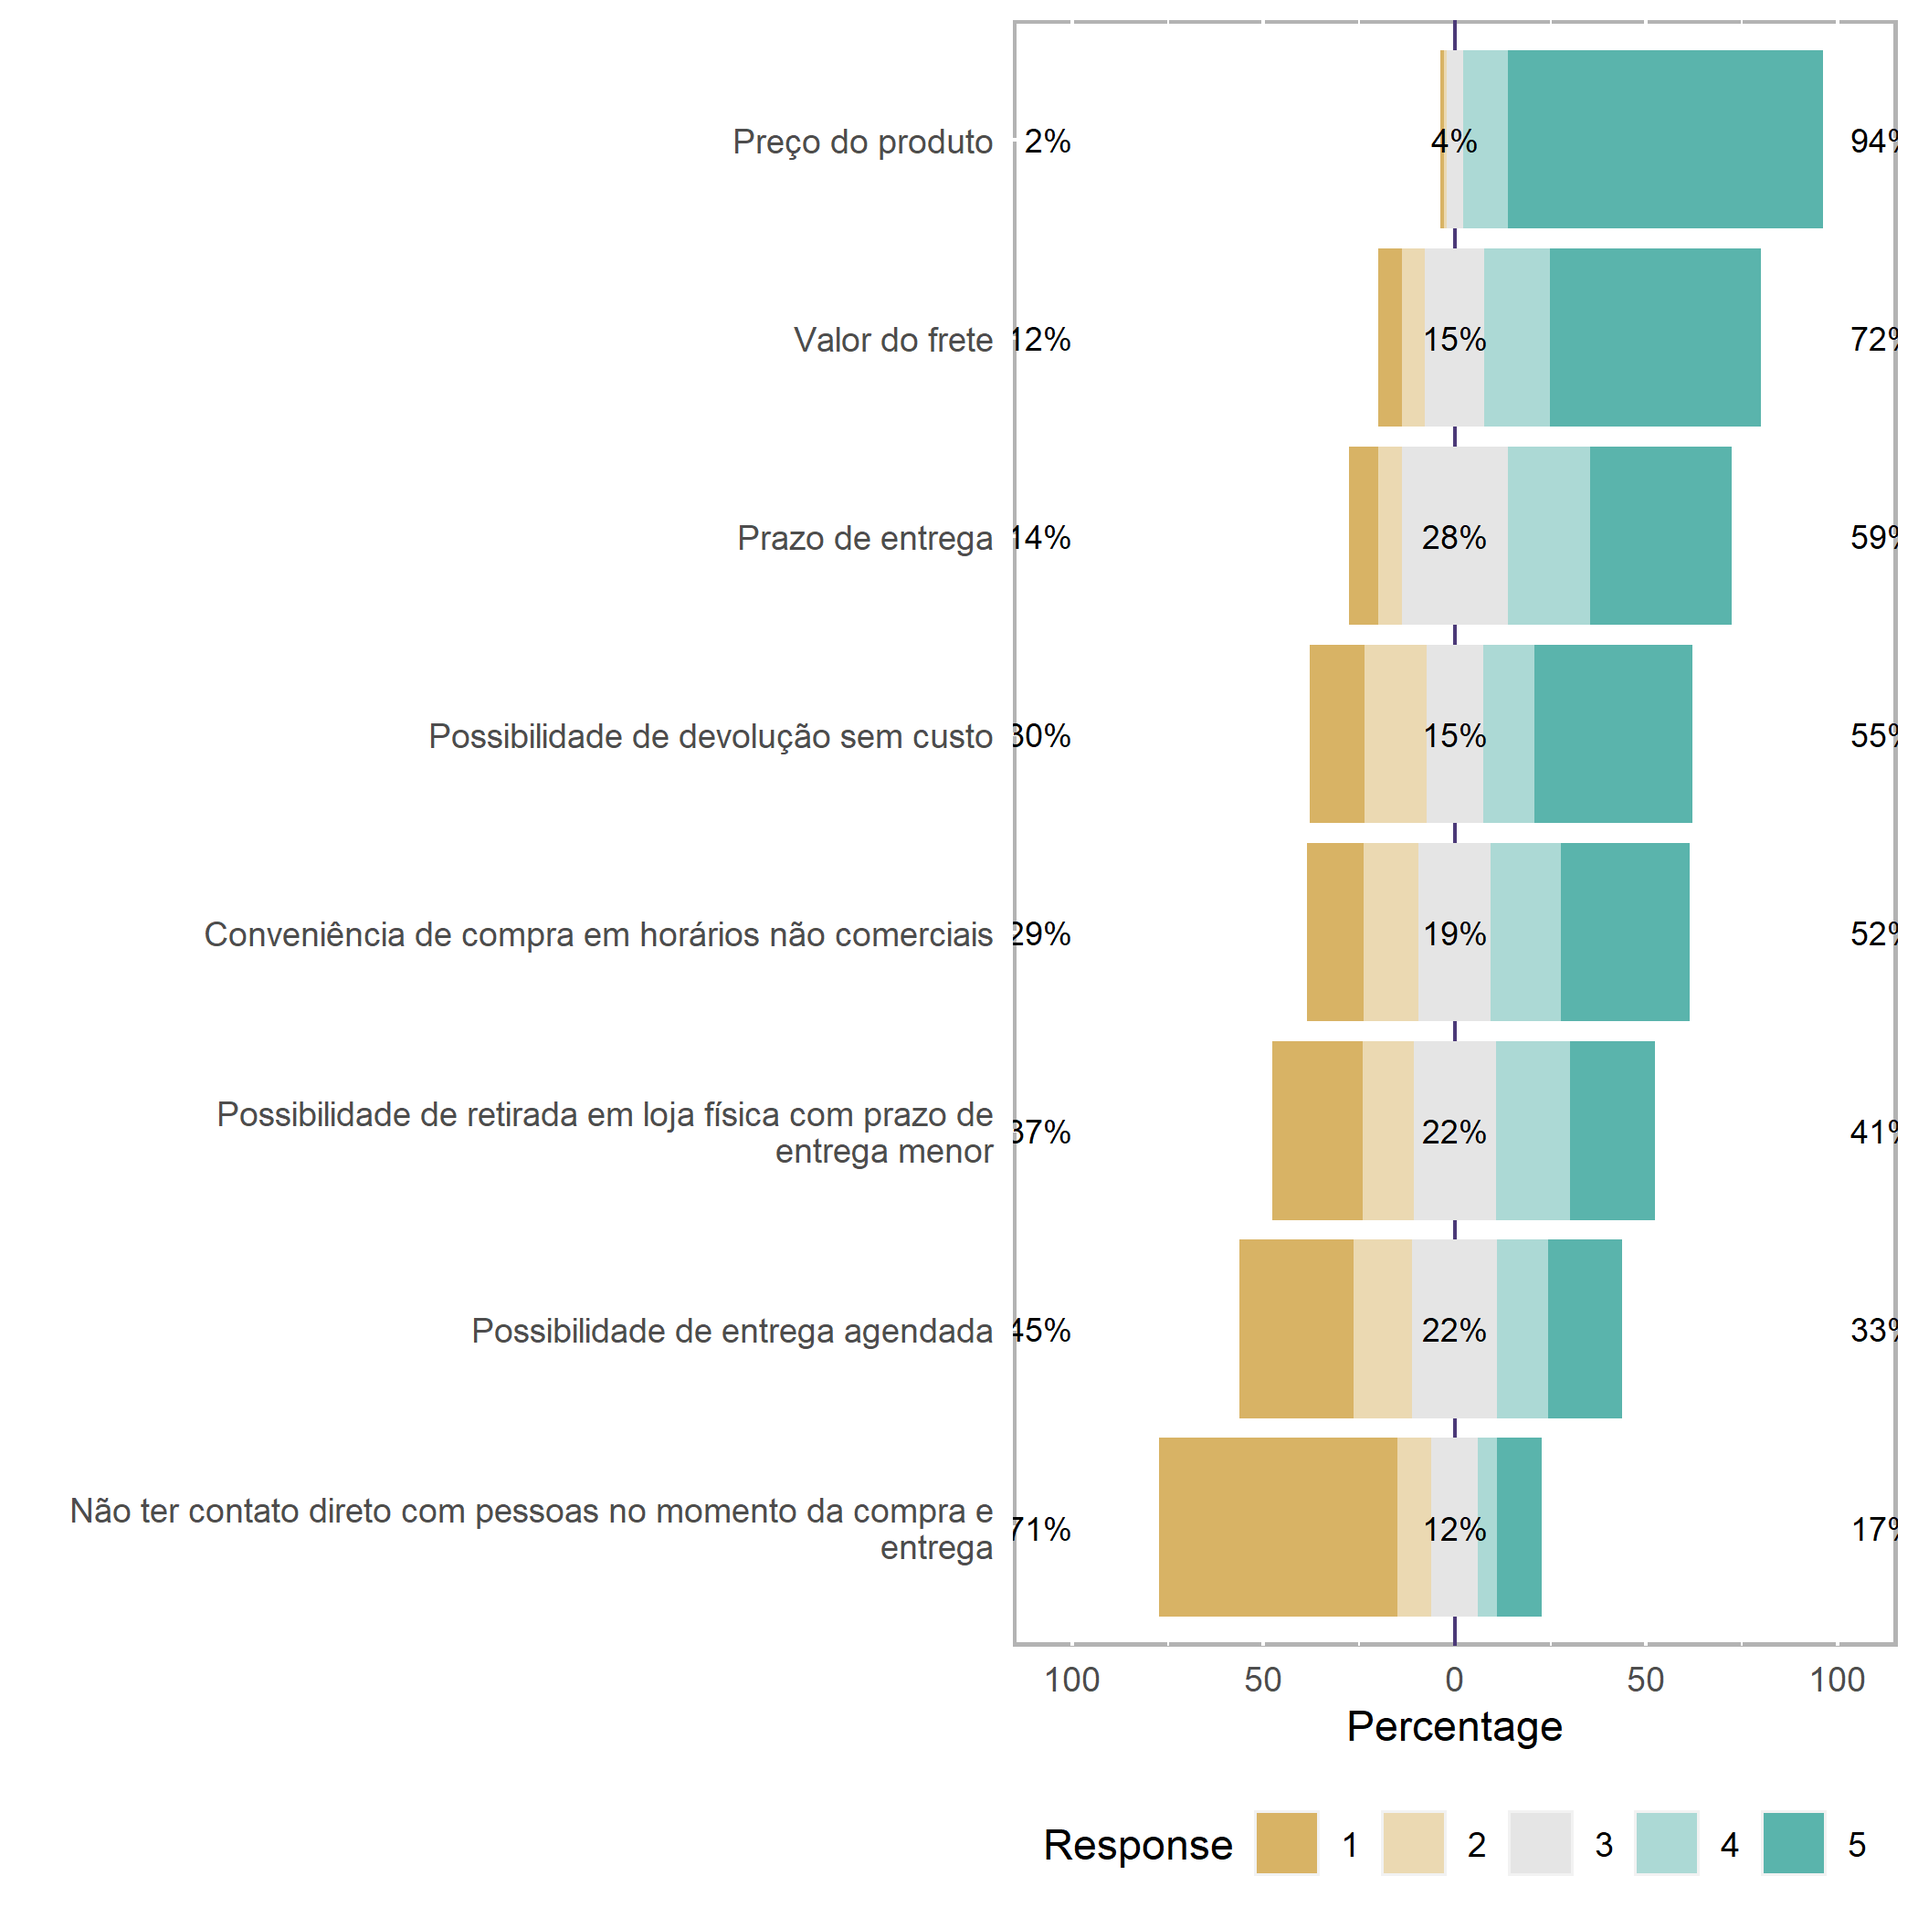
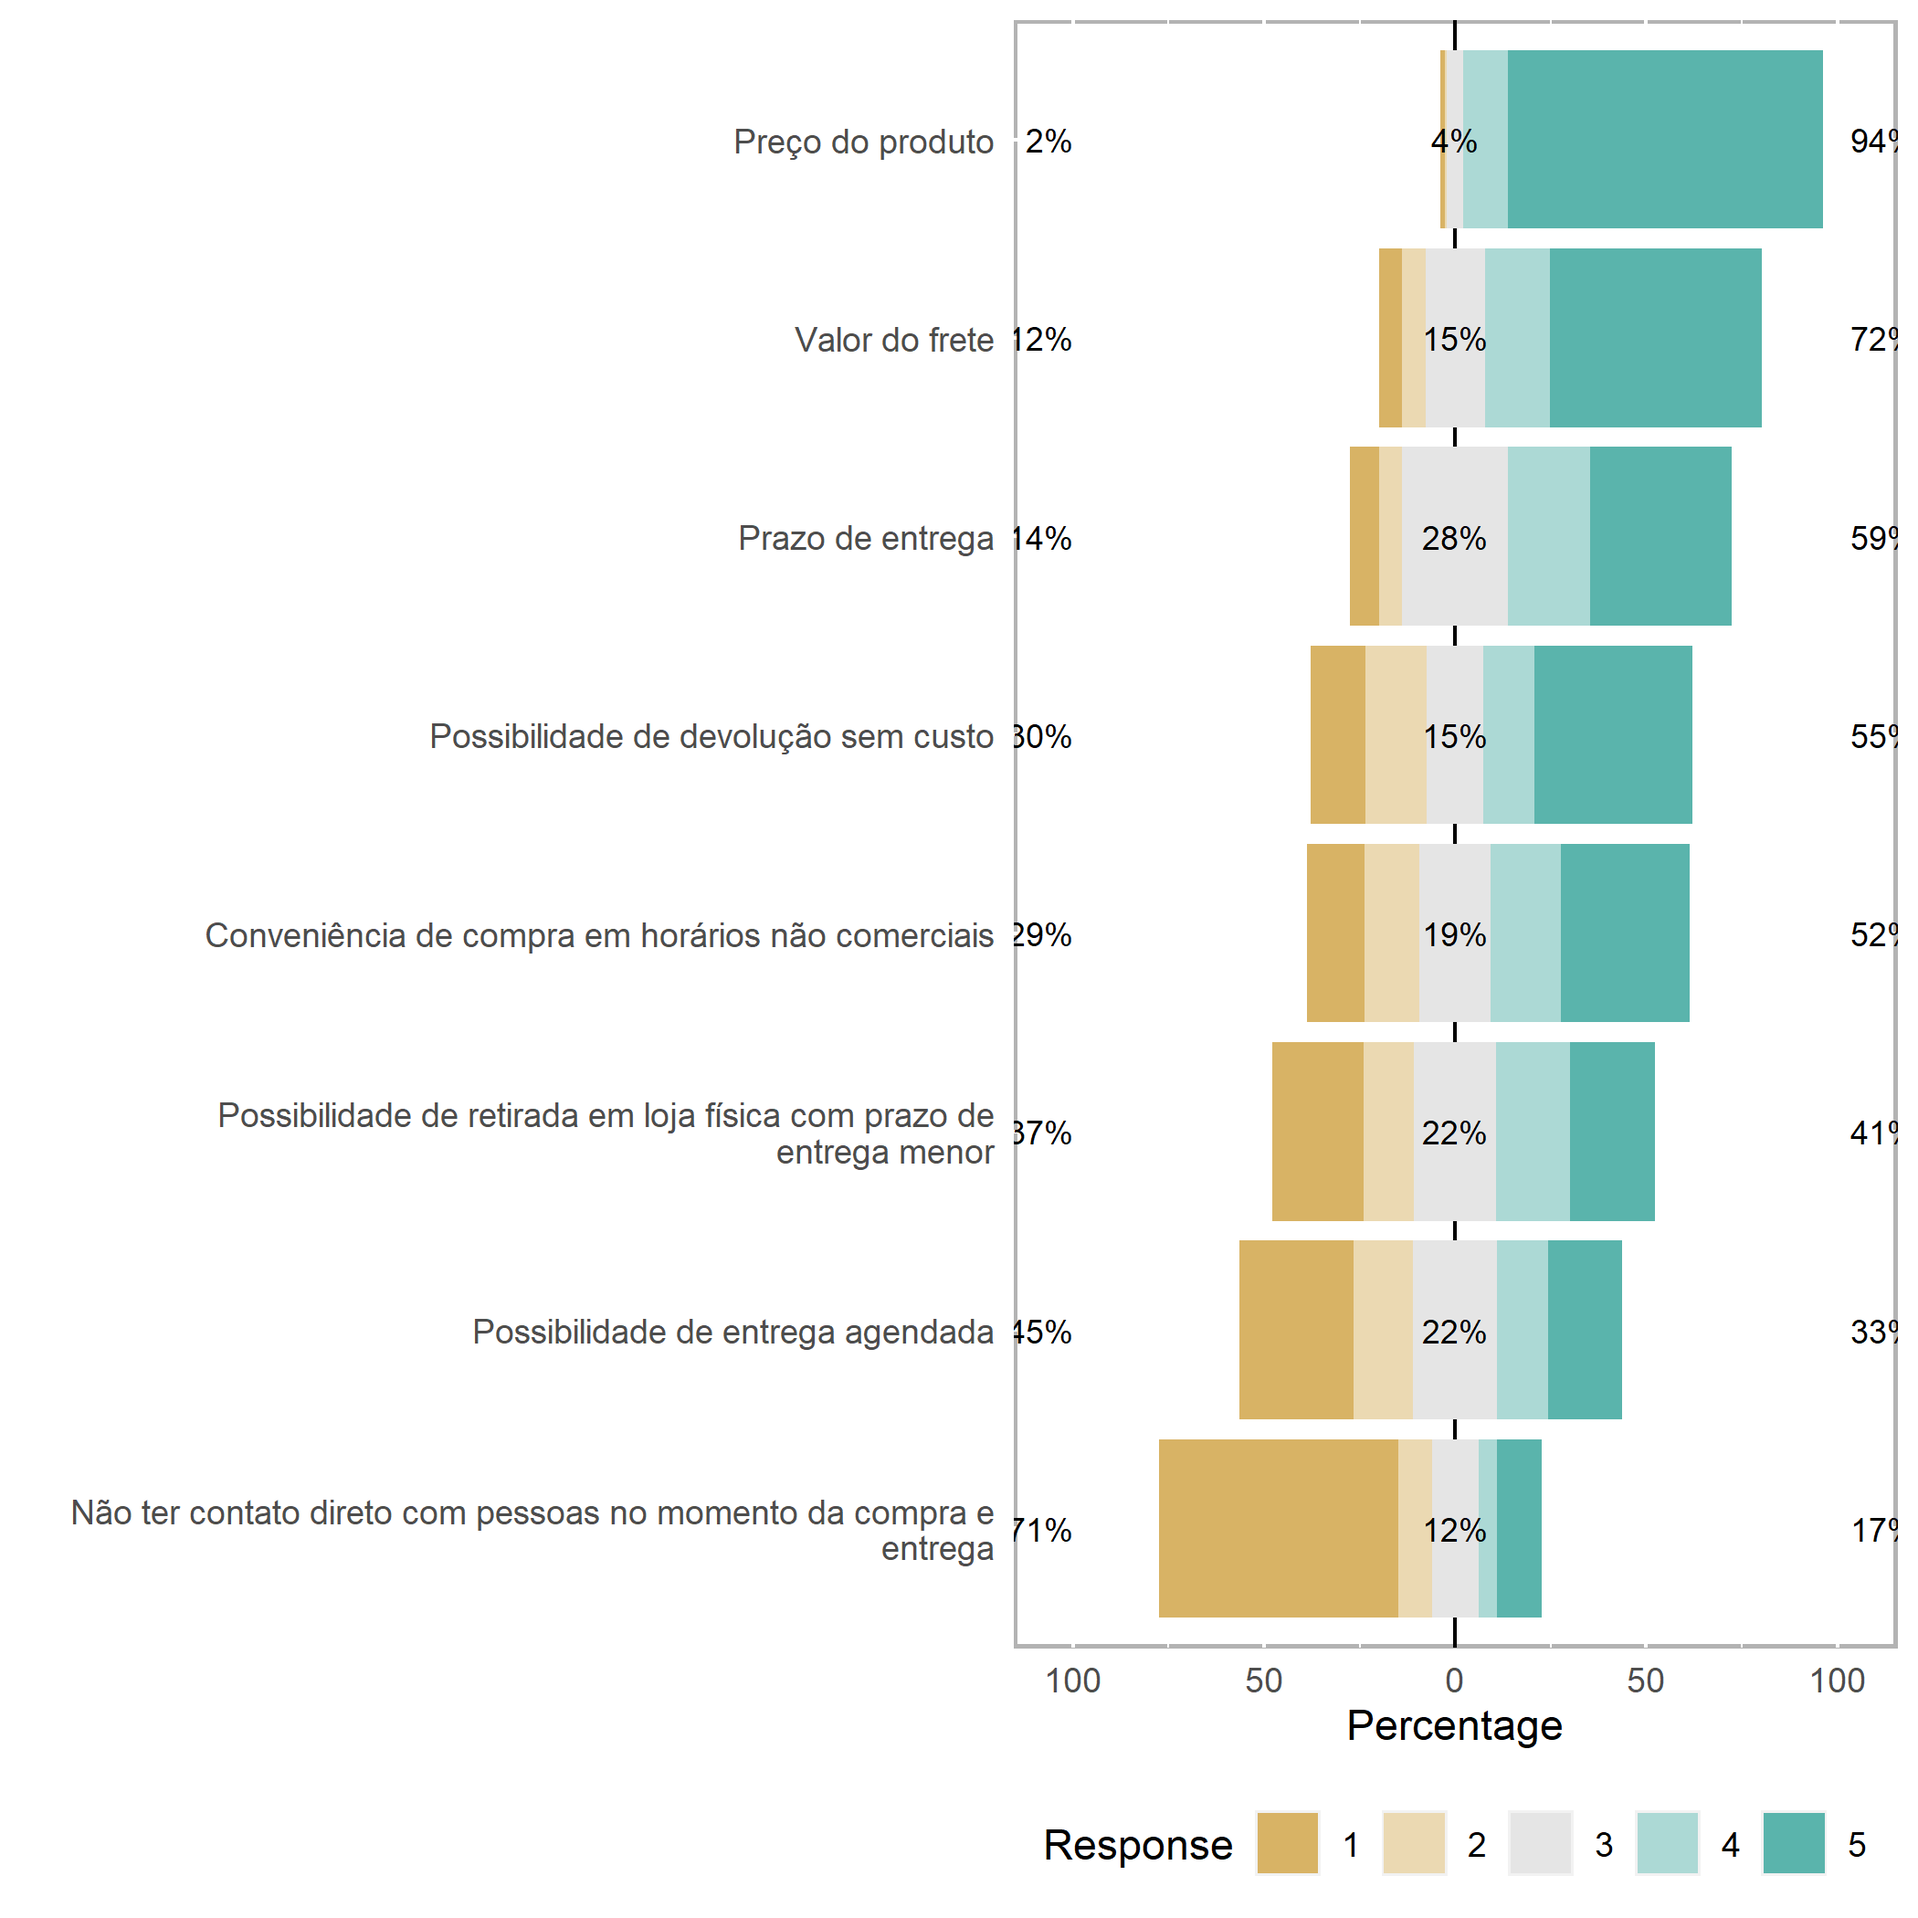
a

diff --git a/index.html b/index.html
@@ -377,20 +377,18 @@ Serviços
 ---
 
 # Resultados
-## Modos de transporte - **compras** e **serviços**
+## **Modos de transporte** - compras e serviços
 
 
 .pull-left[
 .center[
-**Modo de transporte**   
-Compras
+**Compras**
 &lt;img src="img/modo_genero2.png" width="85%" /&gt;
 ]]
 
 .pull-right[
 .center[
-**Modo de transporte**   
-Serviços
+**Serviços**
 &lt;img src="img/modo_genero4.png" width="85%" /&gt;
 ]]
 
@@ -415,11 +413,8 @@ Serviços
 
 # Resultados
 ## Frequência de compras pela internet por tipo de produto
-
-
 .center[
-**Frequência**
-&lt;img src="img/freq_genero_serv.png" width="85%" /&gt;
+&lt;img src="img/freq_genero_serv.png" width="40%" /&gt;
 ]
 
 
@@ -431,13 +426,15 @@ Serviços
 .pull-left[
 .center[
 **Antes**
-&lt;img src="img/likert_antes.png" width="85%" /&gt;
+
+&lt;img src="img/likert_antes.png" width="80%" /&gt;
 ]]
 
 .pull-right[
 .center[
-**Depois**
-&lt;img src="img/likert_depois.png" width="85%" /&gt;
+**Durante**
+
+&lt;img src="img/likert_depois.png" width="80%" /&gt;
 ]]
 
 
